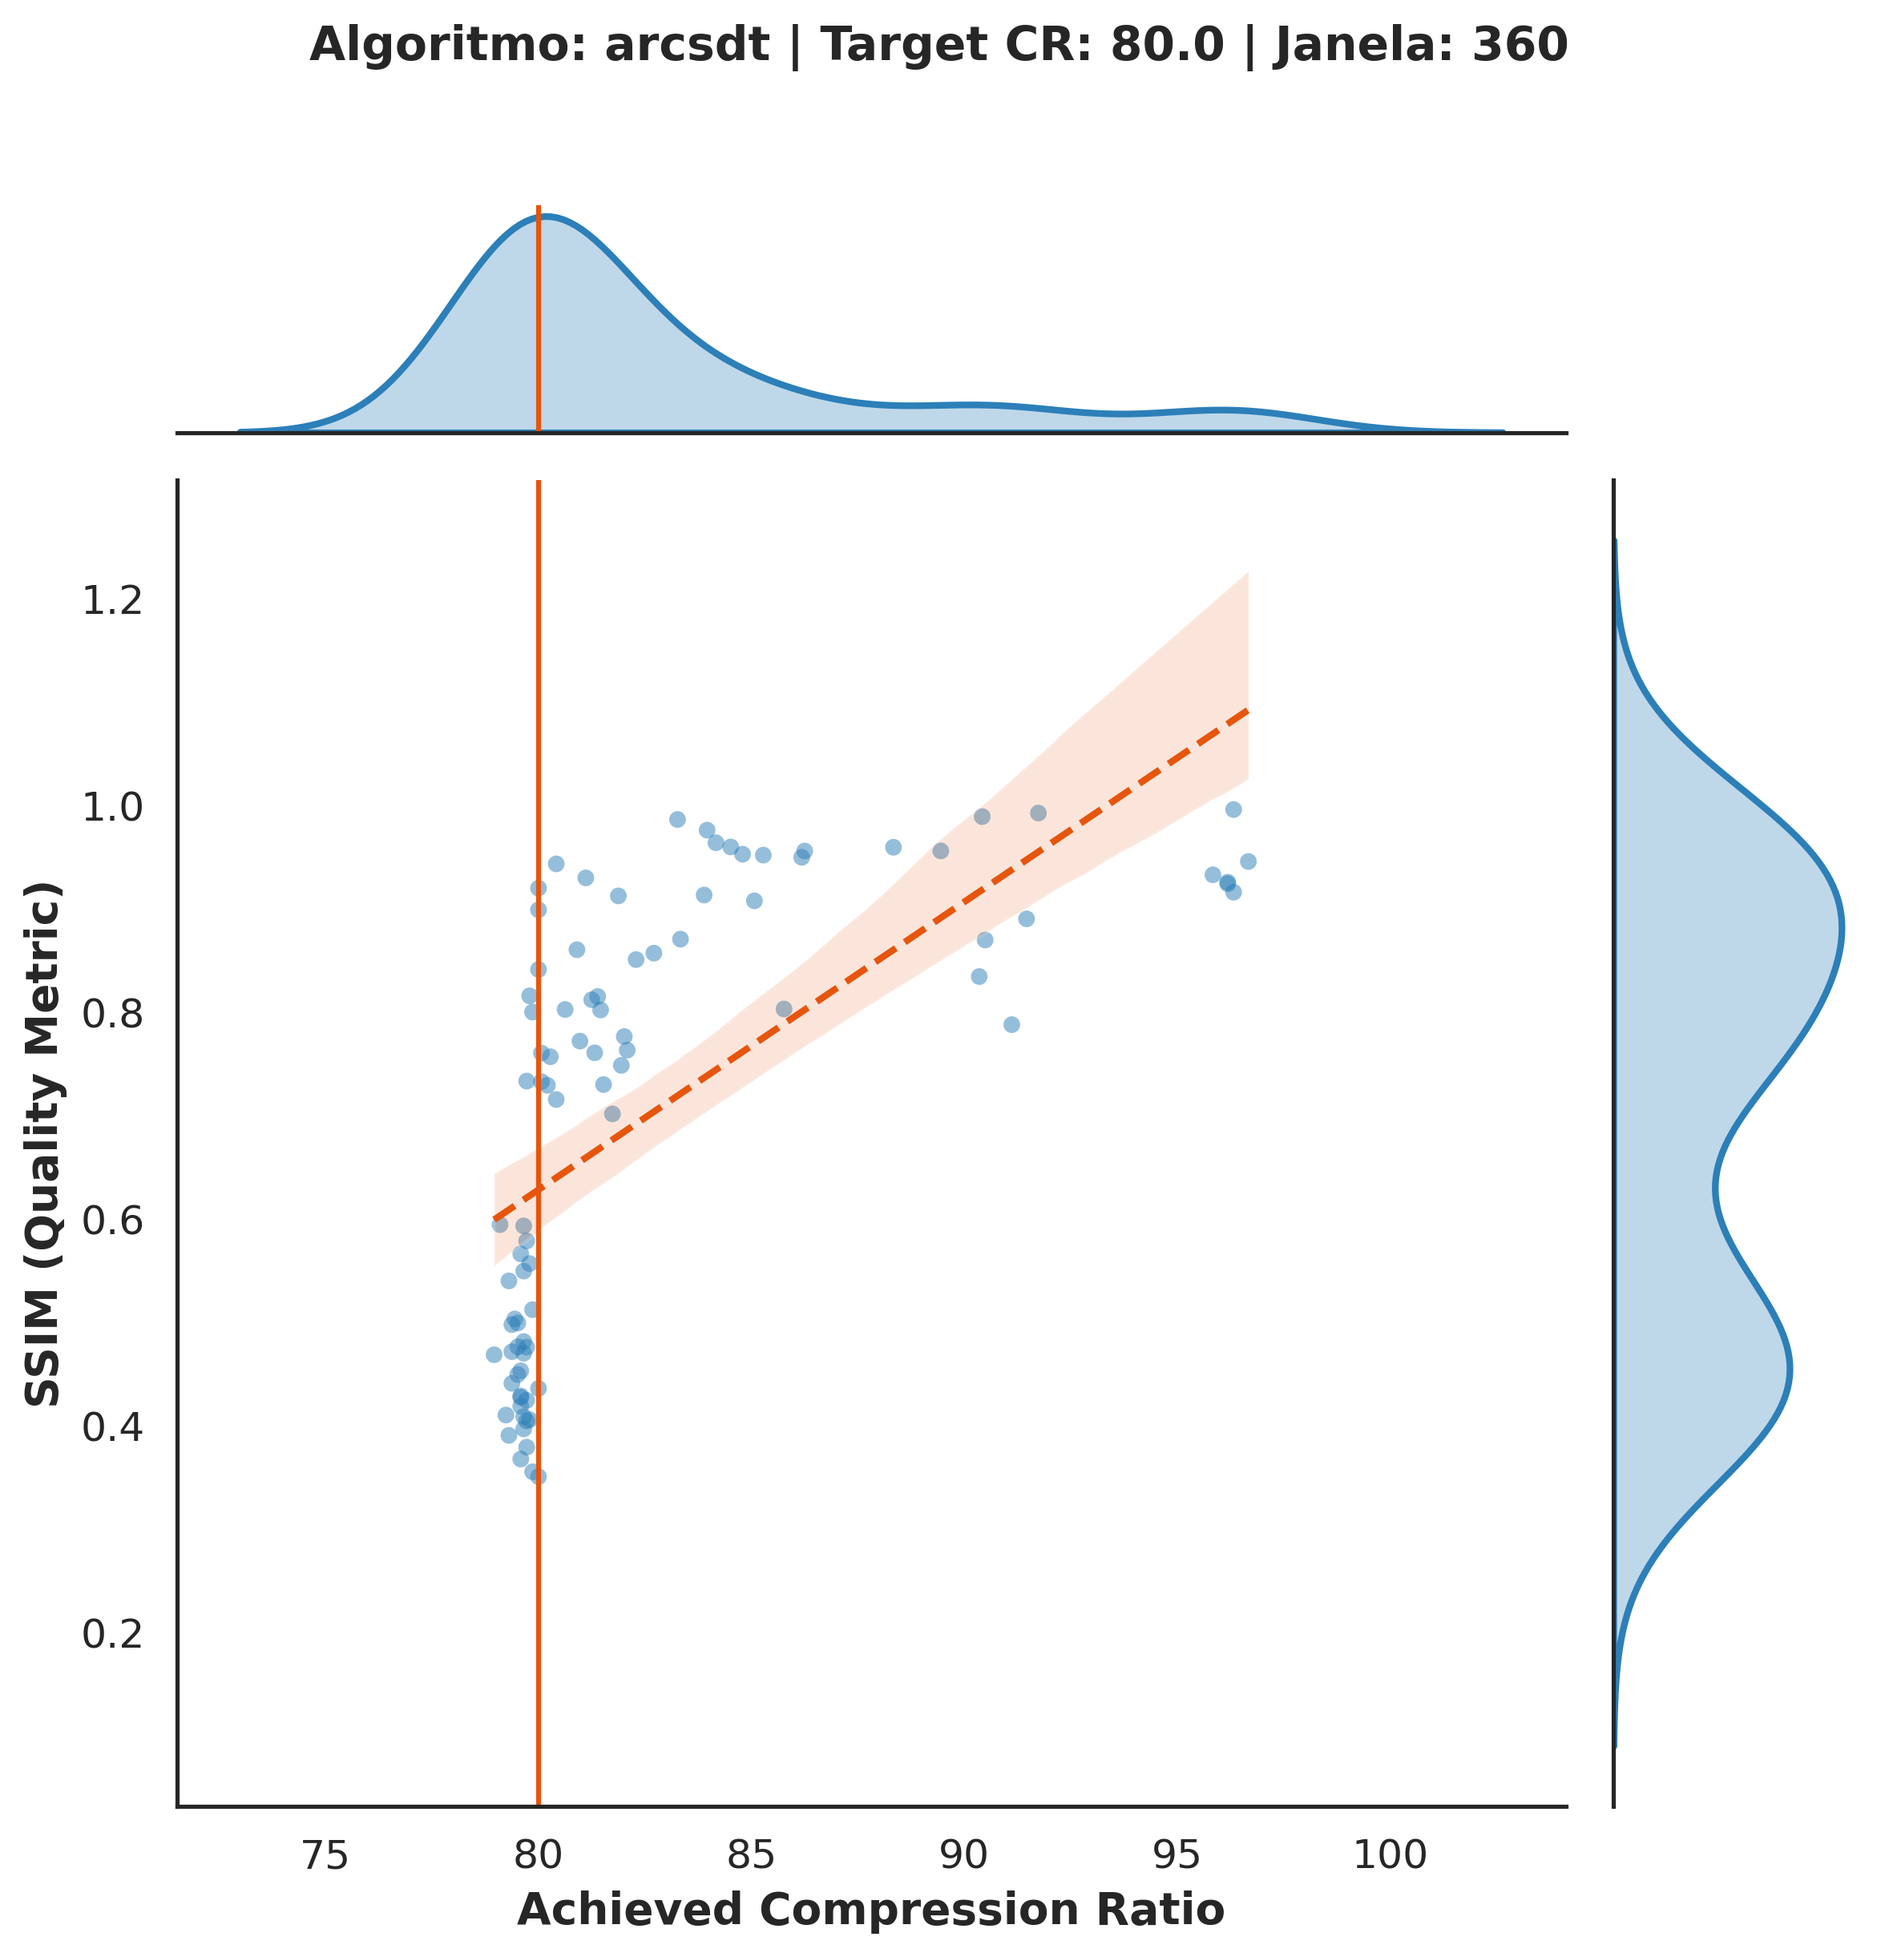
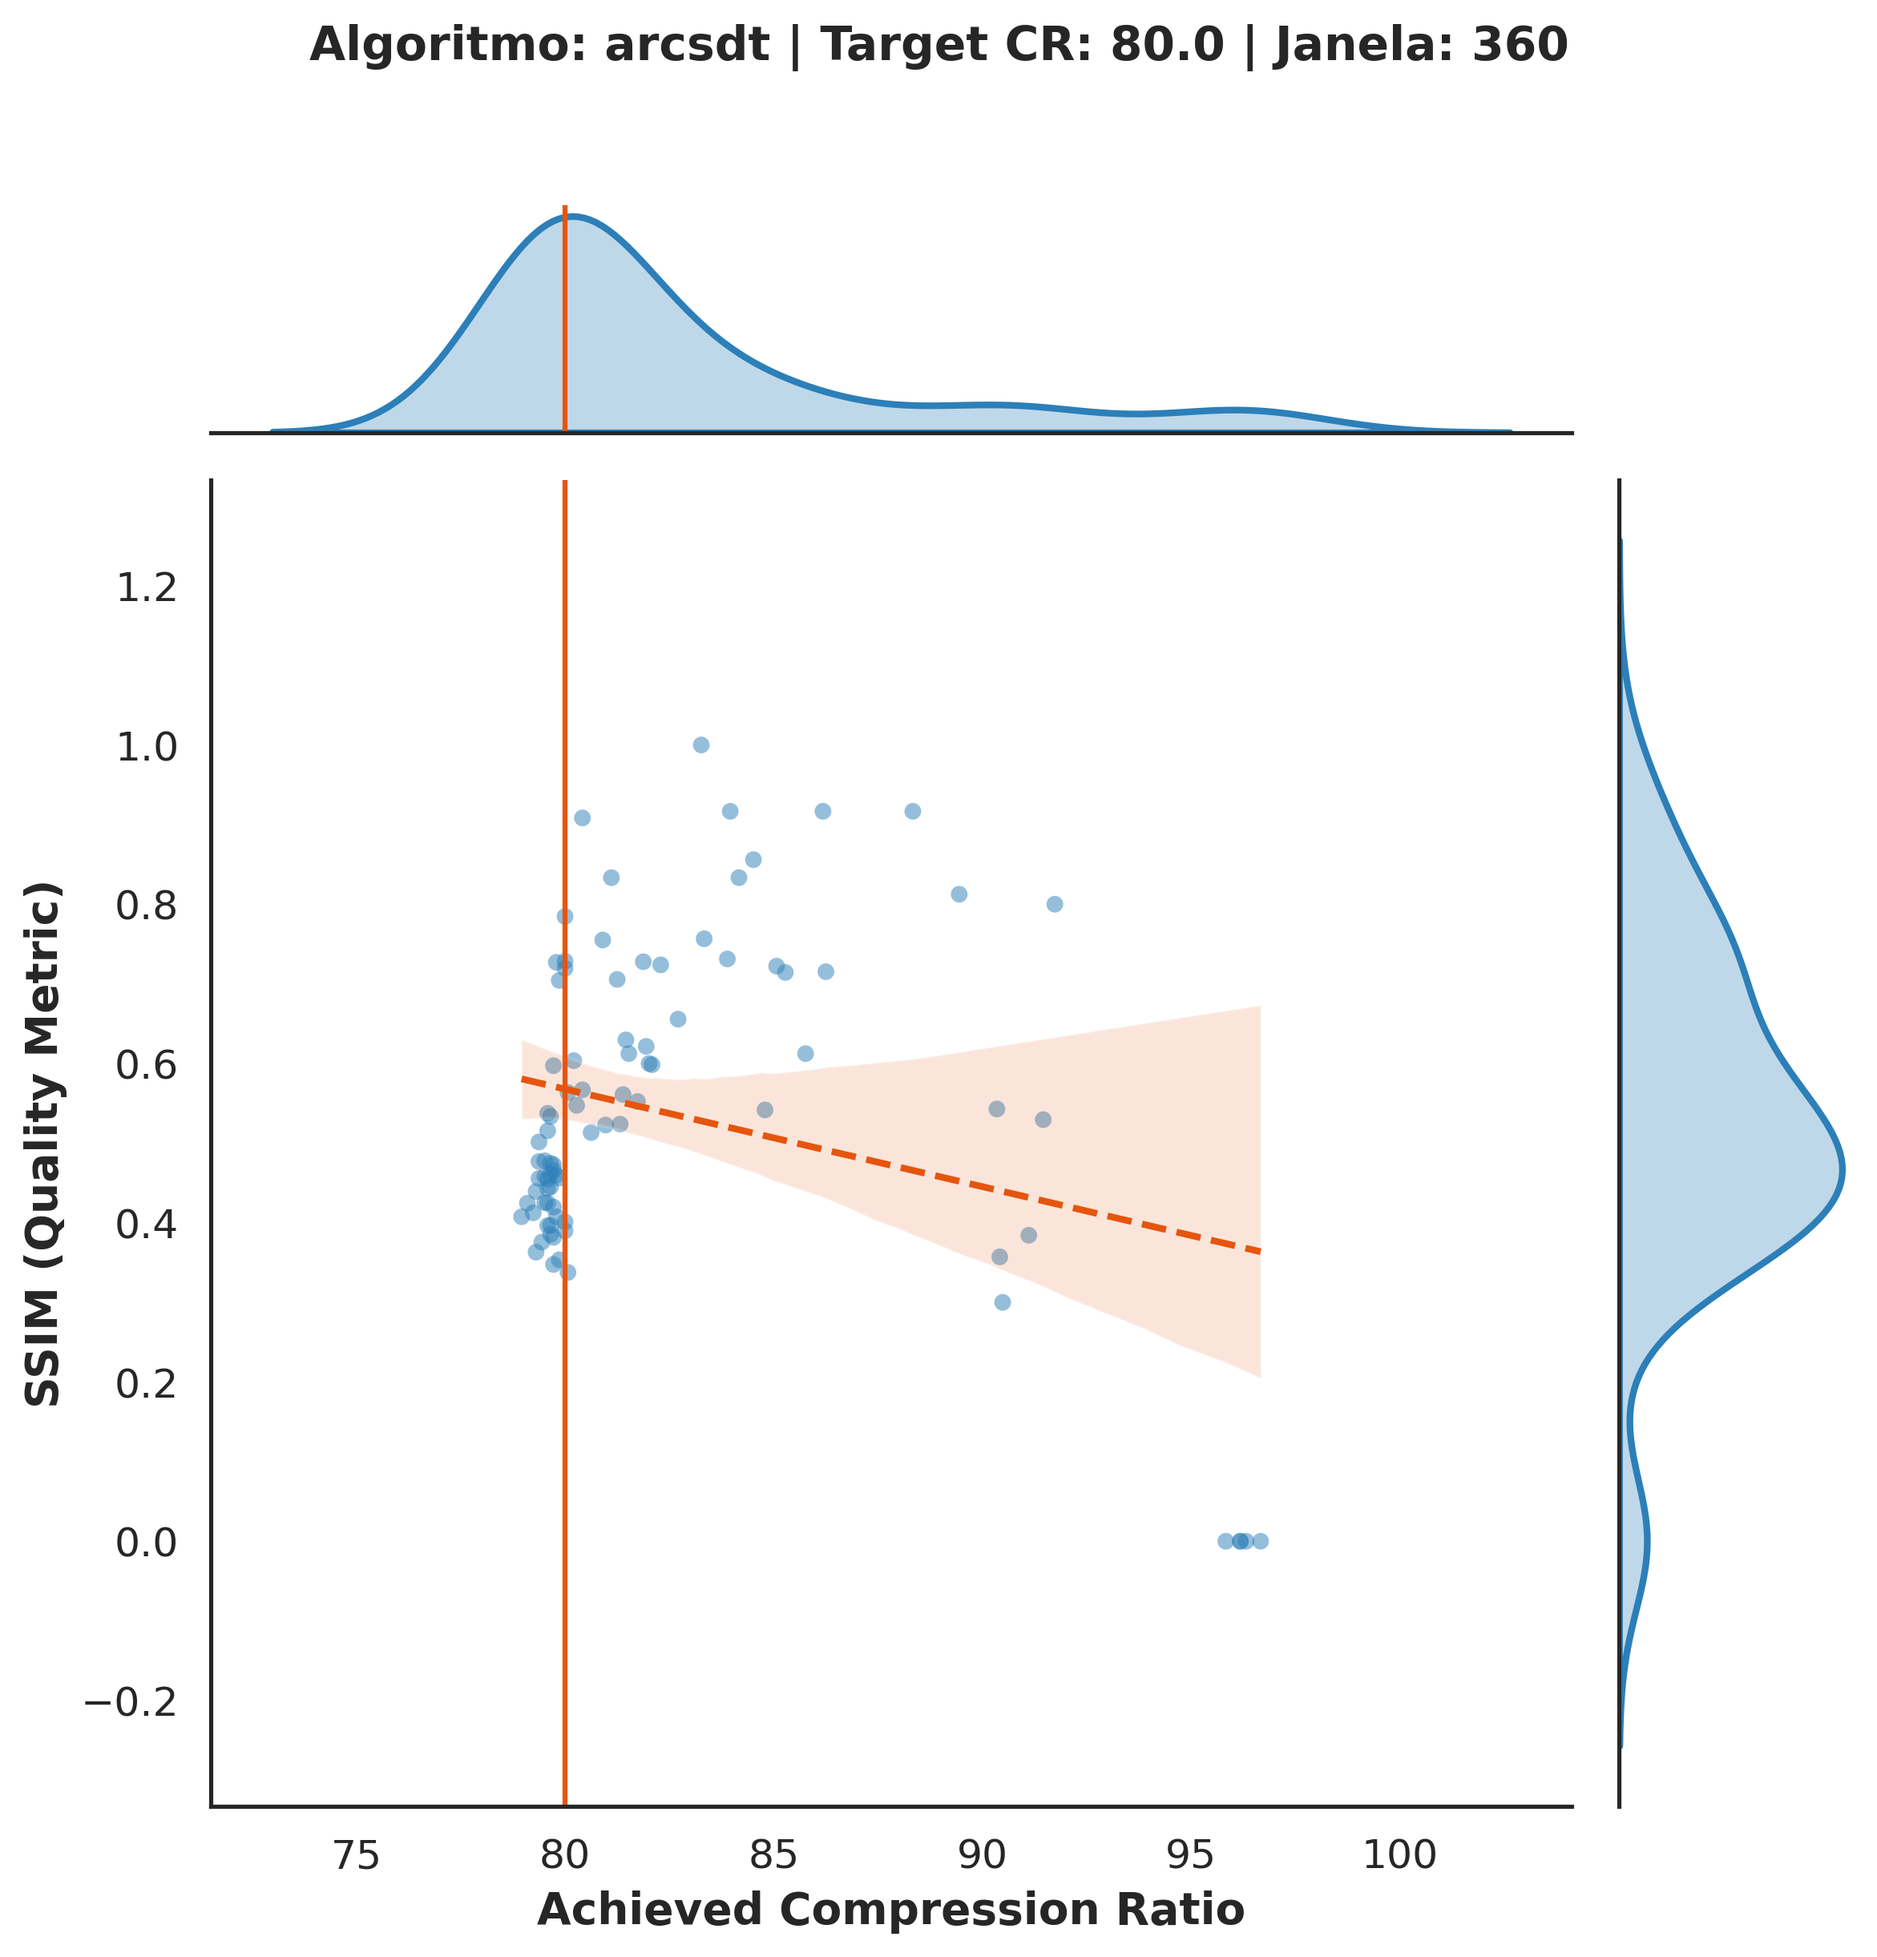
Some changes.

diff --git a/src/compressors/utils/metrics.py b/src/compressors/utils/metrics.py
@@ -3,6 +3,7 @@ import pandas as pd
 import numpy as np
 from math import log10, isinf
 from skimage.metrics import structural_similarity as ssim
+from scipy.signal import find_peaks
 
 
 class Metrics:
@@ -22,9 +23,8 @@ class Metrics:
 
     def nrmse(self):
         range_true = float(self.__serie1.max() - self.__serie1.min())
-        # Proteção contra divisão por zero em sinais constantes
         if range_true == 0:
-            return 0.0 # Ou None, se preferir indicar que a métrica não se aplica
+            return 0.0
         return self.rmse() / range_true
 
     def ssim(self):
@@ -32,7 +32,6 @@ class Metrics:
         s_pred = self.__serie2.to_numpy()
         
         range_true = s_true.max() - s_true.min()
-        # O SSIM da skimage exige que o data_range seja > 0
         if range_true == 0:
             return 1.0 if np.array_equal(s_true, s_pred) else 0.0
 
@@ -71,20 +70,107 @@ class Metrics:
         result = 10 * log10((max_i ** 2) / mse)
         return None if isinf(result) else result
 
+    def peak_recall(self, prominence: float = None, position_tolerance: int = None):
+        """
+        Fração dos picos da série original que foram preservados na série comprimida.
+
+        Um pico original é considerado preservado se existe ao menos um pico
+        na série comprimida dentro da janela de tolerância de posição.
+
+        Parâmetros
+        ----------
+        prominence : float, opcional
+            Proeminência mínima para considerar um ponto como pico.
+            Padrão: 10% do range da série original.
+        position_tolerance : int, opcional
+            Tolerância em número de amostras para casar picos entre as séries.
+            Padrão: 1% do comprimento da série (mínimo 1).
+
+        Retorna
+        -------
+        float : valor entre 0.0 e 1.0, ou None se não houver picos na original.
+        """
+        s_true = self.__serie1.to_numpy()
+        s_pred = self.__serie2.to_numpy()
+
+        if prominence is None:
+            prominence = 0.1 * (s_true.max() - s_true.min())
+        if position_tolerance is None:
+            position_tolerance = max(1, int(0.01 * len(s_true)))
+
+        peaks_true, _ = find_peaks(s_true, prominence=prominence)
+
+        if len(peaks_true) == 0:
+            return None
+
+        peaks_pred, _ = find_peaks(s_pred, prominence=prominence)
+
+        preserved = sum(
+            1 for p in peaks_true
+            if np.any(np.abs(peaks_pred - p) <= position_tolerance)
+        )
+
+        return preserved / len(peaks_true)
+
+    def peak_amplitude_error(self, prominence: float = None, position_tolerance: int = None):
+        """
+        Erro médio normalizado de amplitude nos picos preservados.
+
+        Para cada pico da série original que tem correspondência na comprimida
+        (dentro da tolerância de posição), calcula o erro absoluto de amplitude
+        normalizado pelo valor do pico original.
+
+        Parâmetros
+        ----------
+        prominence : float, opcional
+            Proeminência mínima para considerar um ponto como pico.
+            Padrão: 10% do range da série original.
+        position_tolerance : int, opcional
+            Tolerância em número de amostras para casar picos entre as séries.
+            Padrão: 1% do comprimento da série (mínimo 1).
+
+        Retorna
+        -------
+        float : erro médio em percentual (0–100+), ou None se não houver picos casados.
+        """
+        s_true = self.__serie1.to_numpy()
+        s_pred = self.__serie2.to_numpy()
+
+        if prominence is None:
+            prominence = 0.1 * (s_true.max() - s_true.min())
+        if position_tolerance is None:
+            position_tolerance = max(1, int(0.01 * len(s_true)))
+
+        peaks_true, _ = find_peaks(s_true, prominence=prominence)
+
+        if len(peaks_true) == 0:
+            return None
+
+        peaks_pred, _ = find_peaks(s_pred, prominence=prominence)
+
+        errors = []
+        for p in peaks_true:
+            candidates = peaks_pred[np.abs(peaks_pred - p) <= position_tolerance]
+            if len(candidates) == 0:
+                continue
+            # Pico mais próximo em posição
+            nearest = candidates[np.argmin(np.abs(candidates - p))]
+            amp_true = s_true[p]
+            amp_pred = s_pred[nearest]
+            if amp_true != 0:
+                errors.append(abs(amp_true - amp_pred) / abs(amp_true) * 100)
+
+        return float(np.mean(errors)) if errors else None
+
     @staticmethod
     def energy(serie: pd.Series):
         return serie.sum() / 60
 
     @staticmethod
     def energy_total(serie: pd.Series):
-        """Energia total: soma dos valores absolutos de potência integrada no tempo.
-        Não considera o sentido do fluxo de energia."""
         return serie.abs().sum() / 60
 
     def energy_error(self):
-        """Erro percentual de energia líquida.
-        Pode ser alto quando o saldo energético original é próximo de zero
-        (ex: instalações com geração solar onde consumo e geração se equilibram)."""
         e1 = Metrics.energy(self.__serie1)
         e2 = Metrics.energy(self.__serie2)
 
@@ -94,8 +180,6 @@ class Metrics:
         return 100 * abs((e1 - e2) / e1)
 
     def energy_error_total(self):
-        """Erro percentual de energia total (sem considerar sentido do fluxo).
-        Robusto para séries com valores negativos, pois o denominador é sempre positivo."""
         e1 = Metrics.energy_total(self.__serie1)
         e2 = Metrics.energy_total(self.__serie2)
 
@@ -117,6 +201,8 @@ class Metrics:
             "SSIM": self.ssim(),
             "EnergyError": self.energy_error(),
             "EnergyErrorTotal": self.energy_error_total(),
+            "PeakRecall": self.peak_recall(),
+            "PeakAmplitudeError": self.peak_amplitude_error(),
         }
 
         return response

diff --git a/analysis/src/joint.py b/analysis/src/joint.py
@@ -37,13 +37,13 @@ def main():
     sns.set_theme(style="white", font_scale=1.1)
     
     # Criar o JointGrid (Eixo X: compression_ratio, Eixo Y: SSIM)
-    g = sns.JointGrid(data=df, x='compression_ratio', y='SSIM', space=0, height=8)
+    g = sns.JointGrid(data=df, x='compression_ratio', y='PeakRecall', space=0, height=8)
 
     # --- Centro: Dispersão com transparência ---
     g.plot_joint(sns.scatterplot, alpha=0.5, color='#2c7fb8', edgecolor='none', s=25)
     
     # Linha de tendência para mostrar o trade-off
-    sns.regplot(data=df, x='compression_ratio', y='SSIM', ax=g.ax_joint, 
+    sns.regplot(data=df, x='compression_ratio', y='PeakRecall', ax=g.ax_joint, 
                 scatter=False, color='#e6550d', line_kws={'lw': 2, 'linestyle': '--'})
 
     # --- Marginais: As "Ondas" (KDE) ---

diff --git a/src/compressors/dct/dct.py b/src/compressors/dct/dct.py
@@ -25,14 +25,14 @@ class DCTCompressor:
             # Aplica a Transformada Discreta de Cosseno
             coeffs = dct(x_norm, norm='ortho')
             
-            N = len(coeffs)
+            N = len(x)
             byte_sz = 4
             
             # --- CÁLCULO DO ORÇAMENTO BASEADO EM % ---
             tamanho_original = N * byte_sz
             
             # Se CR=80, queremos que o tamanho_alvo seja 20% do original
-            percentual_manter = (1 - self.cr / 100)
+            percentual_manter = round((1 - self.cr / 100),10)
             tamanho_alvo = tamanho_original * percentual_manter
 
             # OVERHEAD: Apenas xmin, xmax e N (3 metadados fixos)

diff --git a/src/compressors/wavelet/wavelet.py b/src/compressors/wavelet/wavelet.py
@@ -33,7 +33,7 @@ class WaveletCompressor:
             tamanho_original = N * byte_sz
             
             # Se CR=80, queremos que o tamanho_alvo seja 20% do original (1 - 80/100)
-            percentual_manter = (1 - self.cr / 100)
+            percentual_manter = round((1 - self.cr / 100),10)
             tamanho_alvo = tamanho_original * percentual_manter
 
             # Metadados: xmin(4), xmax(4), N(4) + estrutura de cada nível (2 valores por slice)

diff --git a/experiment.py b/experiment.py
@@ -187,6 +187,7 @@ erros_finais = []
 # ]
 ALGOS = [
     ("wavelet", "wavelet-db4"),
+    ("dct",     "dct"),
     ("arcsdt",  "arcsdt"),
 ]
 
